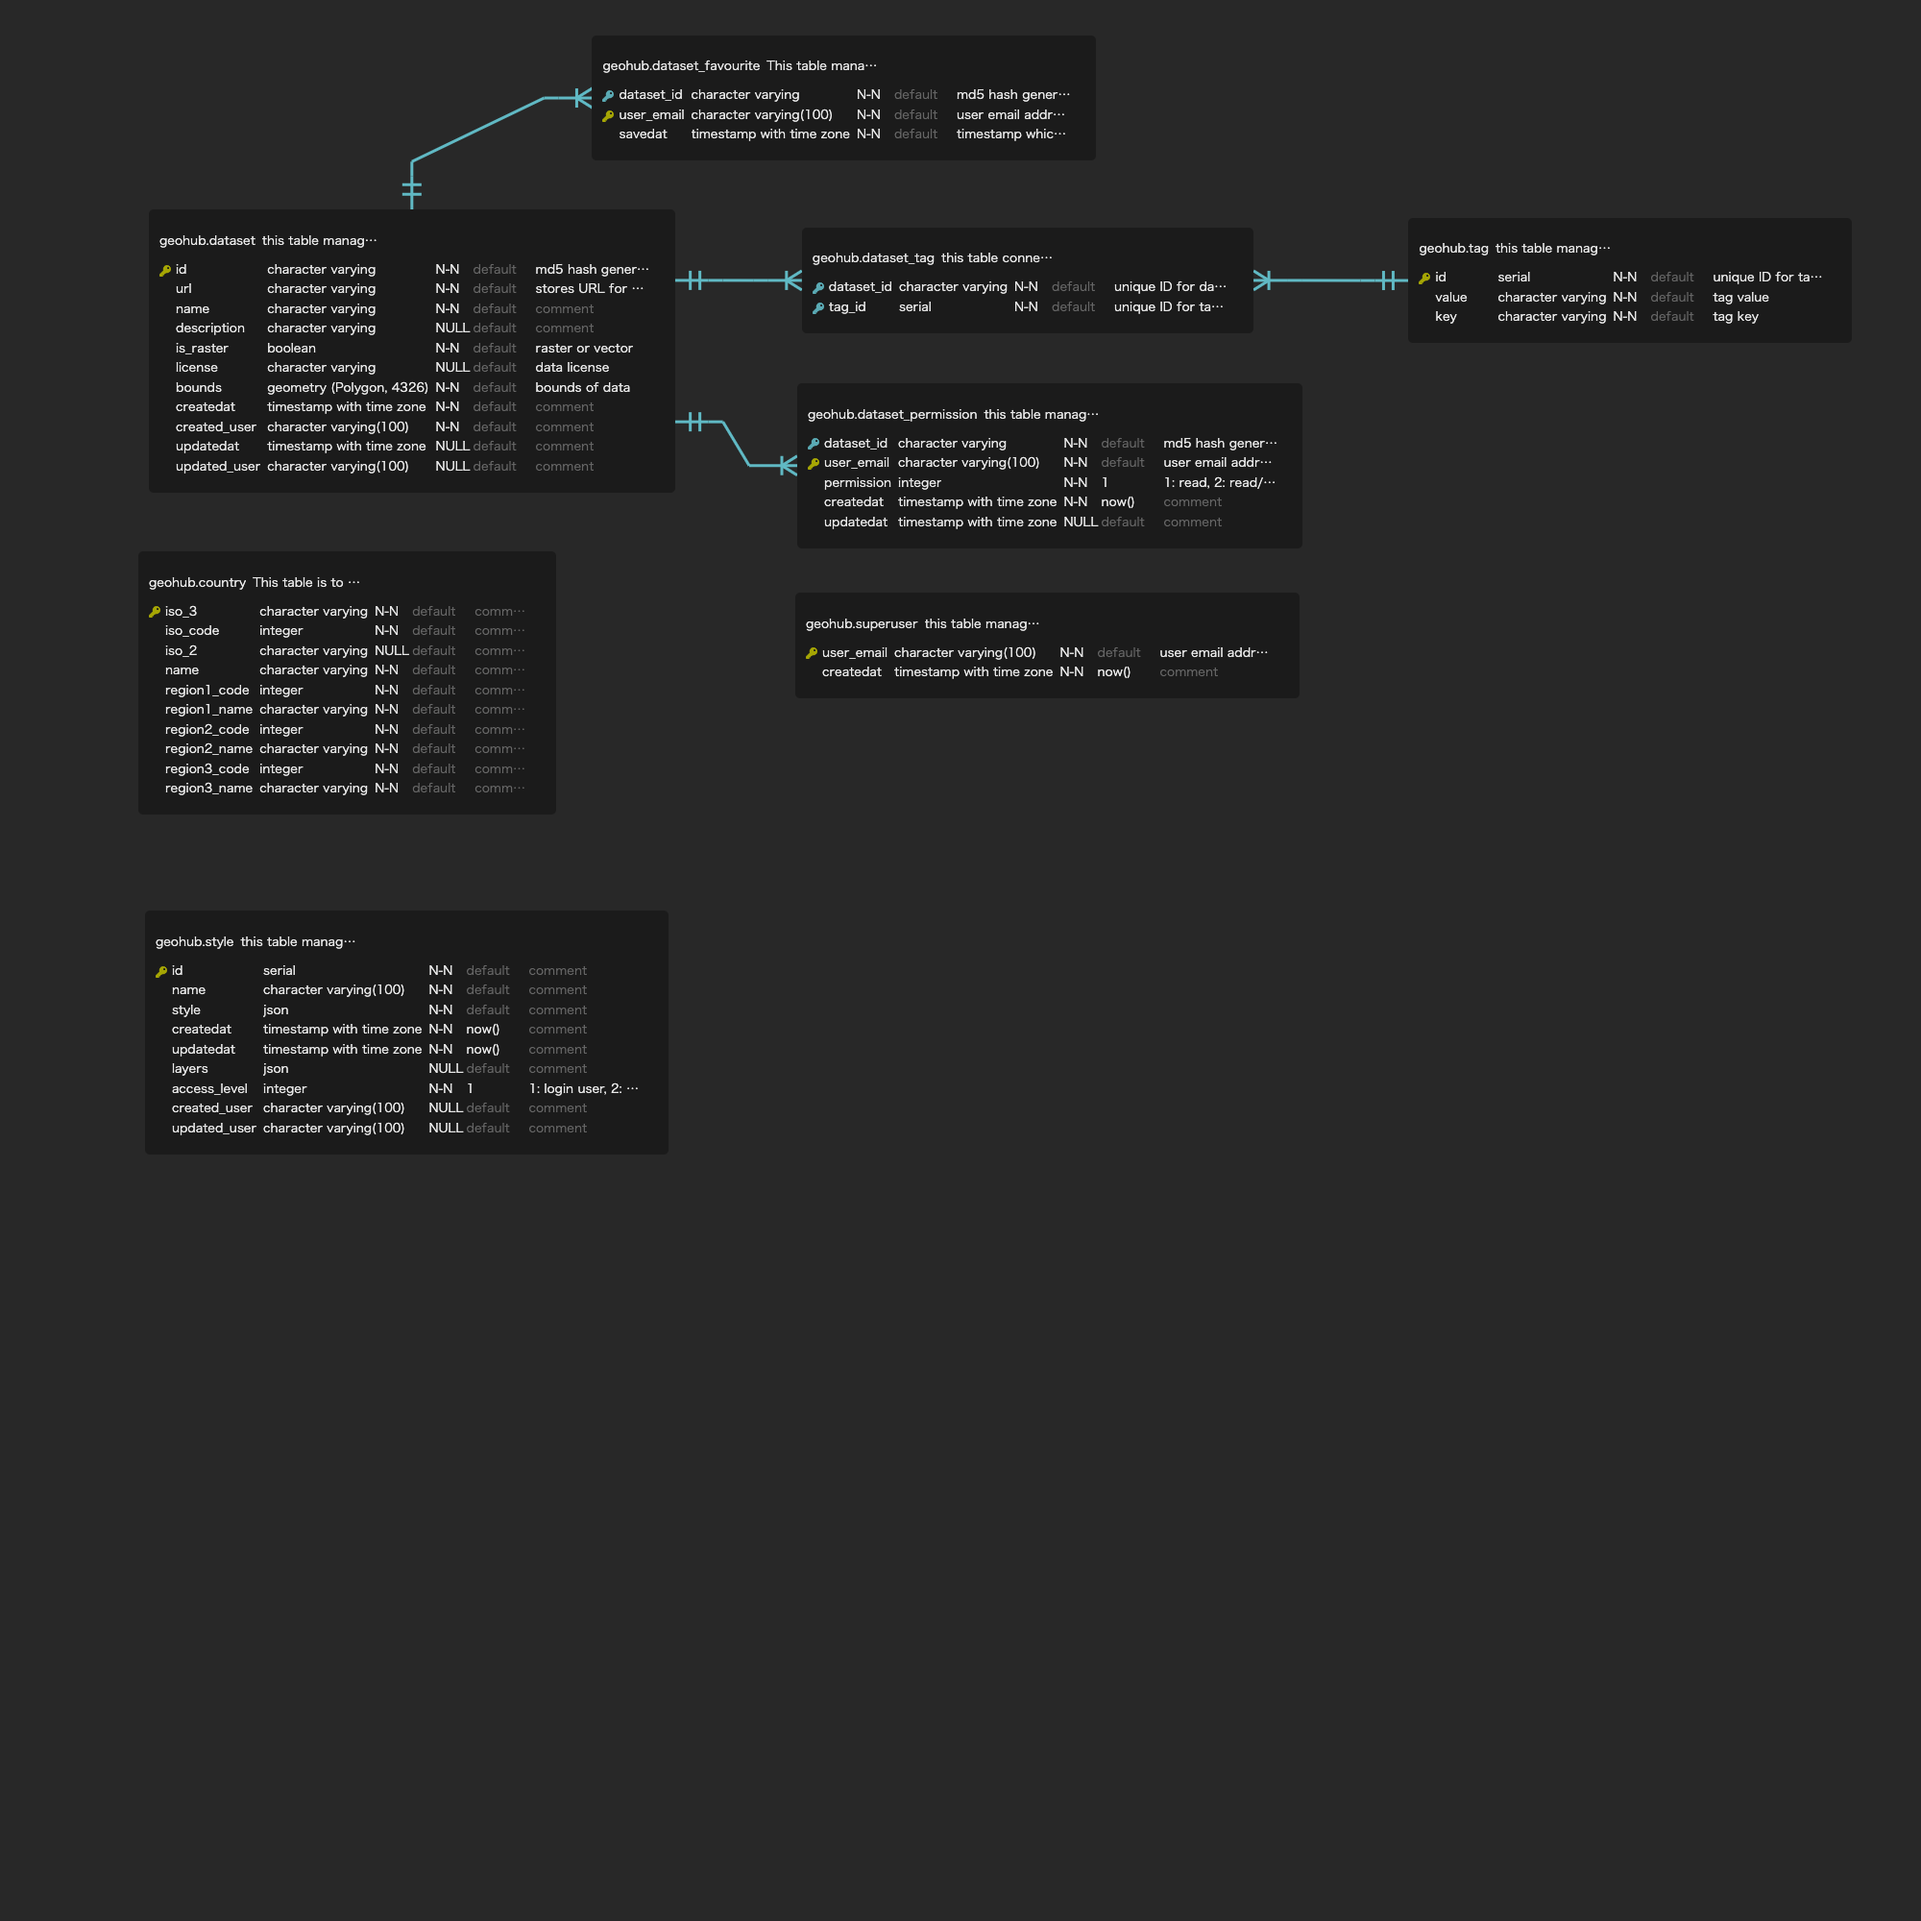
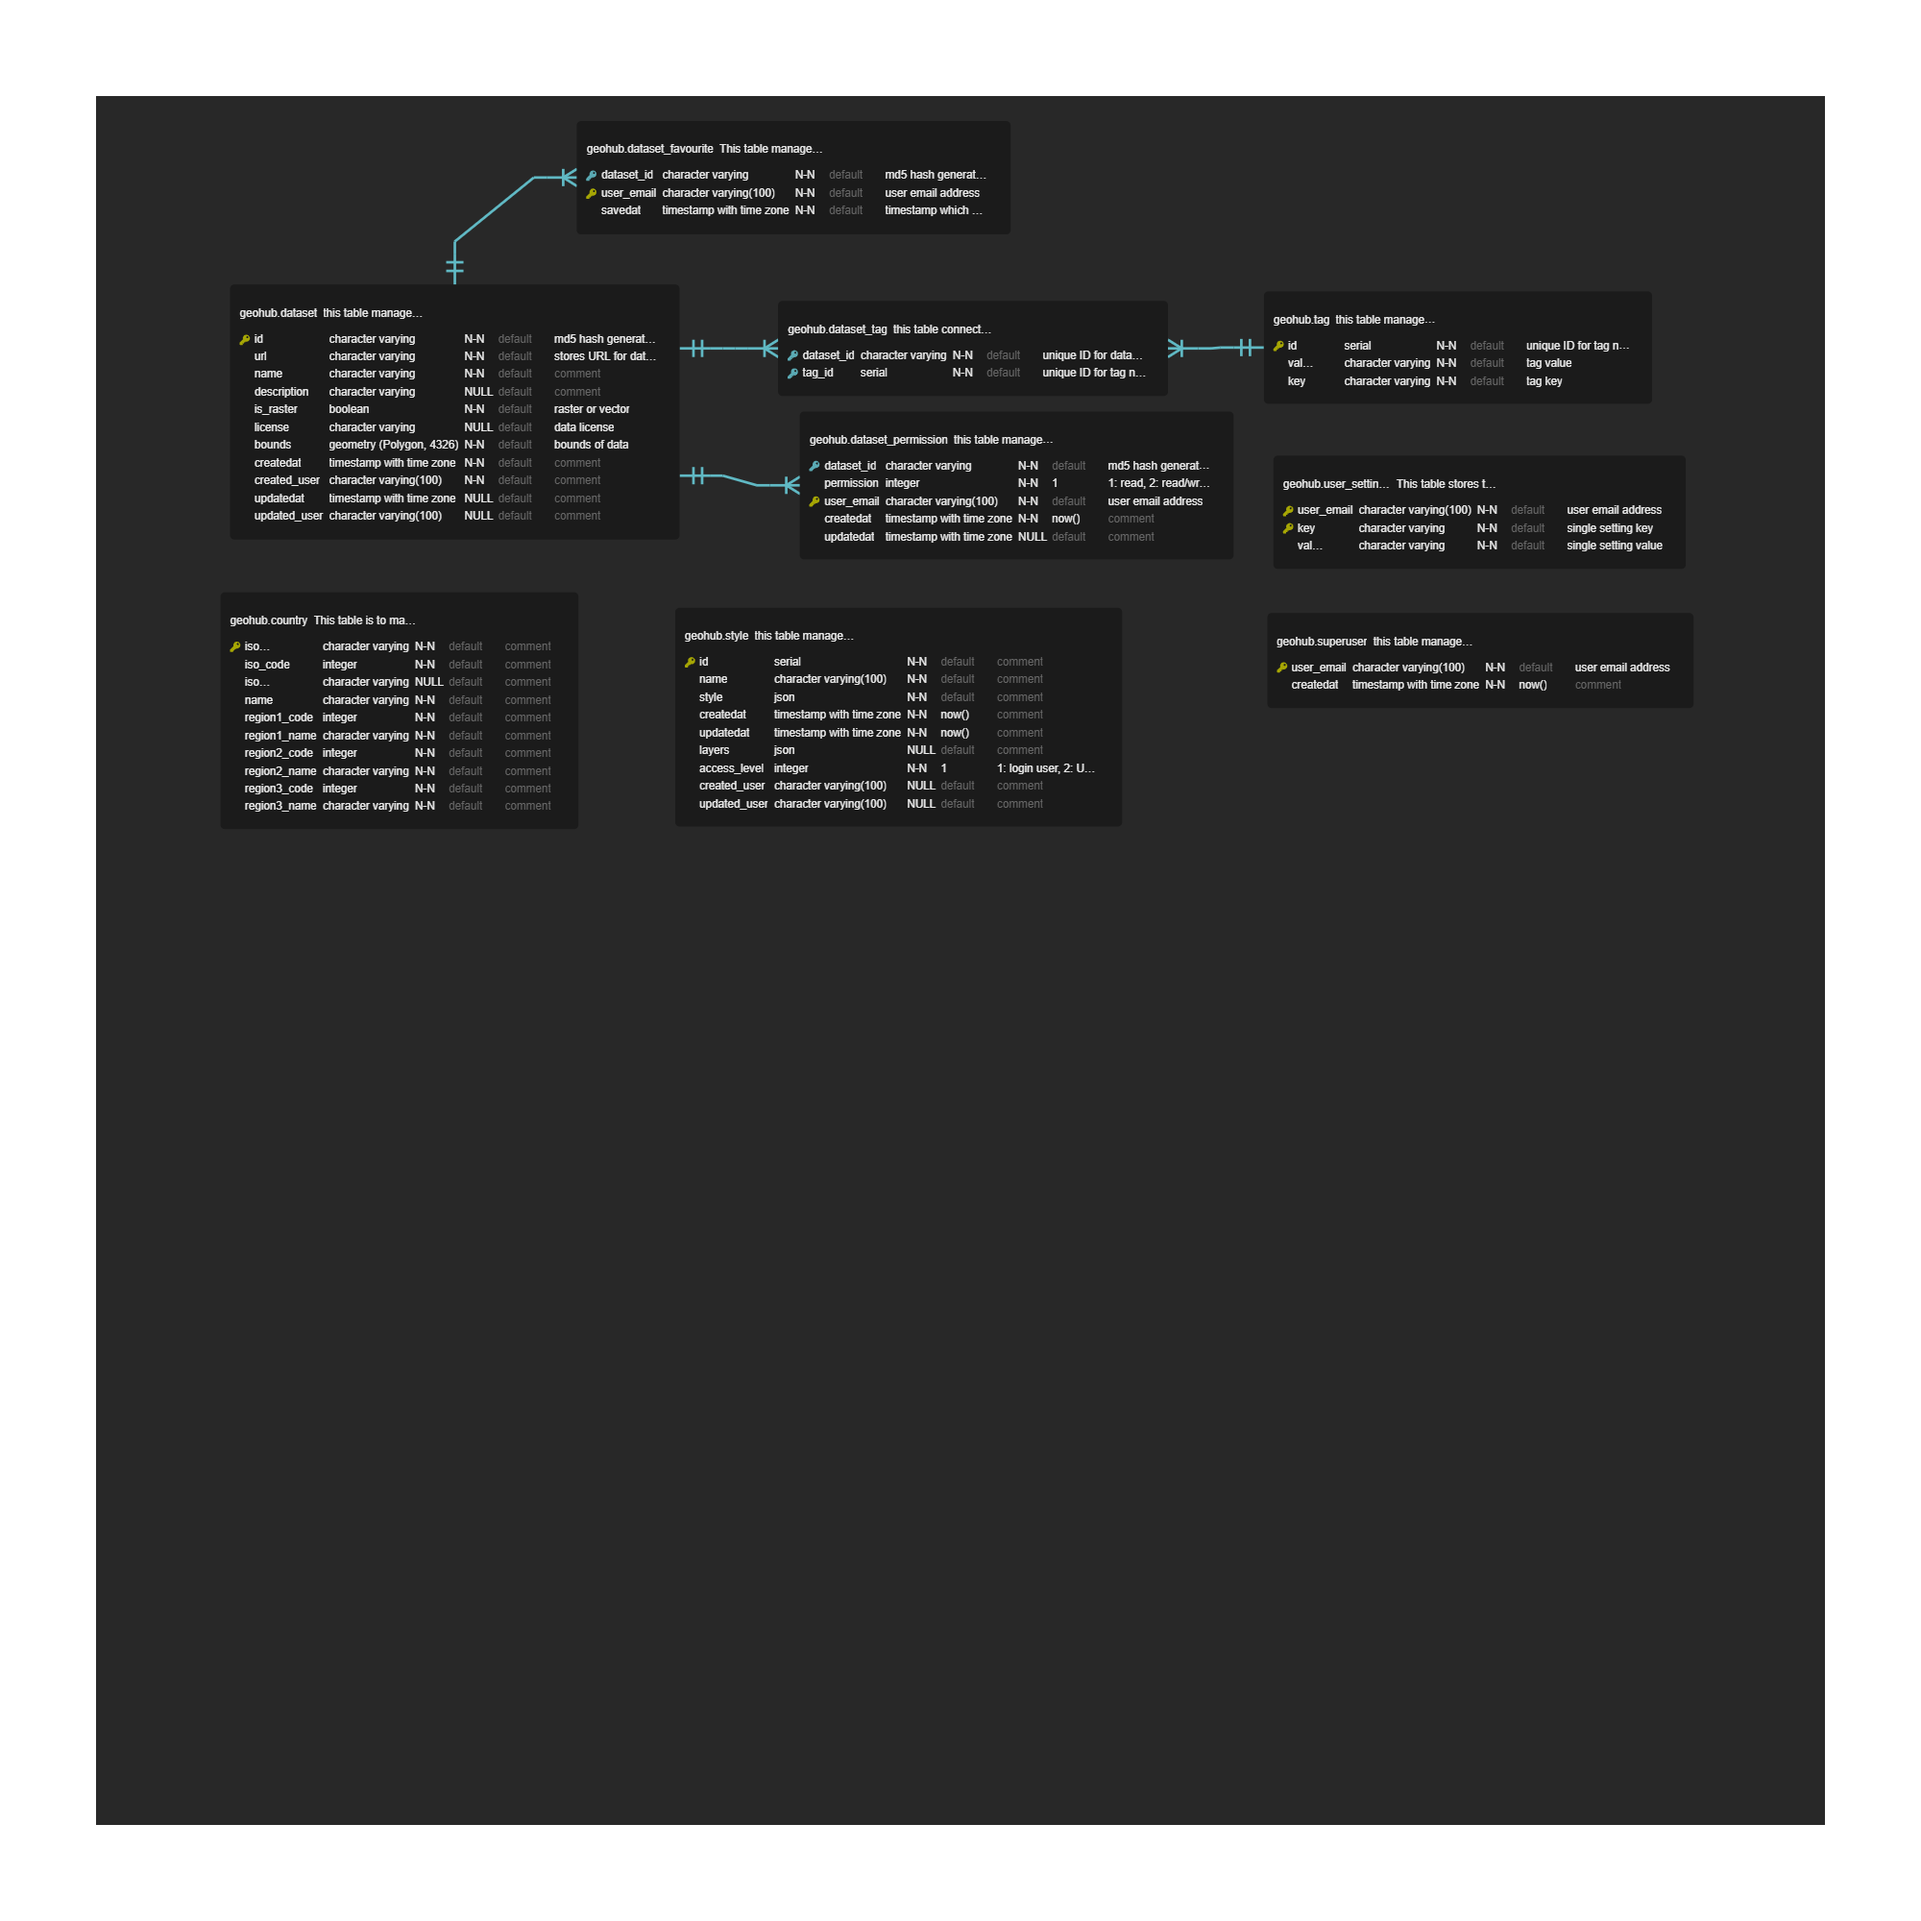
add ERD diagram & `SidebarPosition` setting

diff --git a/sites/geohub/src/lib/config/DefaultUserConfig/index.ts b/sites/geohub/src/lib/config/DefaultUserConfig/index.ts
@@ -7,6 +7,7 @@ import { MapPageSortingColumn } from './MapPageSortingColumn'
 import { NumberOfClasses } from './NumberOfClasses'
 import { SearchLimit } from './SearchLimit'
 import { TagSearchOperator } from './TagSearchOperator'
+import { SidebarPosition } from './SidebarPosition'
 
 export interface UserConfig {
   SearchLimit: number
@@ -18,6 +19,7 @@ export interface UserConfig {
   MapPageSortingColumn: string
   LineWidth: number
   NumberOfClasses: number
+  SidebarPosition: 'left' | 'right'
 }
 
 export const DefaultUserConfig = {
@@ -30,4 +32,5 @@ export const DefaultUserConfig = {
   MapPageSortingColumn,
   LineWidth,
   NumberOfClasses,
+  SidebarPosition,
 }

diff --git a/sites/geohub/src/lib/config/DefaultUserConfig/SidebarPosition.ts b/sites/geohub/src/lib/config/DefaultUserConfig/SidebarPosition.ts
@@ -1,0 +1,1 @@
+export const SidebarPosition = 'left'
